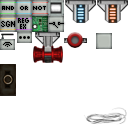
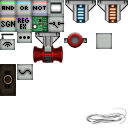
Added oscillators (a signal component that sends out a periodic pulse, sine wave or a square wave)

Changed region(s): [[0.125, 0.5, 0.2812, 0.625]]

diff --git a/Barotrauma/BarotraumaShared/Source/Items/Components/Signal/OscillatorComponent.cs b/Barotrauma/BarotraumaShared/Source/Items/Components/Signal/OscillatorComponent.cs
@@ -1,0 +1,93 @@
+using System;
+using System.Collections.Generic;
+using System.Globalization;
+using System.Text;
+using System.Xml.Linq;
+using Microsoft.Xna.Framework;
+
+namespace Barotrauma.Items.Components
+{
+    class OscillatorComponent : ItemComponent
+    {
+        public enum WaveType
+        {
+            Pulse,
+            Sine,
+            Square,
+        }
+
+        private float frequency;
+
+        private float phase;
+
+        [InGameEditable, HasDefaultValue(WaveType.Pulse, true)]
+        public WaveType OutputType
+        {
+            get;
+            set;
+        }
+
+        [InGameEditable, HasDefaultValue(1.0f, true)]
+        public float Frequency
+        {
+            get { return frequency; }
+            set { frequency = Math.Max(0.0f, value); }
+        }
+
+        public OscillatorComponent(Item item, XElement element) : 
+            base(item, element)
+        {
+            IsActive = true;
+        }
+
+        public override void Update(float deltaTime, Camera cam)
+        {
+            switch (OutputType)
+            {
+                case WaveType.Pulse:
+                    if (frequency <= 0.0f) return;
+
+                    phase += deltaTime;
+                    float pulseInterval = 1.0f / frequency;
+                    while (phase >= pulseInterval)
+                    {
+                        item.SendSignal(0, "1", "signal_out", null);
+                        phase -= pulseInterval;
+                    }
+                    break;
+                case WaveType.Square:
+                    phase = (phase + deltaTime * frequency) % 1.0f;
+                    item.SendSignal(0, phase < 0.5f ? "0" : "1", "signal_out", null);
+                    break;
+                case WaveType.Sine:
+                    phase = (phase + deltaTime * frequency) % 1.0f;
+                    item.SendSignal(0, Math.Sin(phase * MathHelper.TwoPi).ToString(CultureInfo.InvariantCulture), "signal_out", null);
+                    break;
+            }
+        }
+
+        public override void ReceiveSignal(int stepsTaken, string signal, Connection connection, Item source, Character sender, float power = 0.0f)
+        {
+            switch (connection.Name)
+            {
+                case "set_frequency":
+                case "frequency_in":
+                    float newFrequency;
+                    if (float.TryParse(signal, out newFrequency))
+                    {
+                        Frequency = newFrequency;
+                    }
+                    IsActive = true;
+                    break;
+                case "set_outputtype":
+                case "set_wavetype":
+                    WaveType newOutputType;
+                    if (Enum.TryParse(signal, out newOutputType))
+                    {
+                        OutputType = newOutputType;
+                    }
+                    break;
+            }
+        }
+    }
+}
